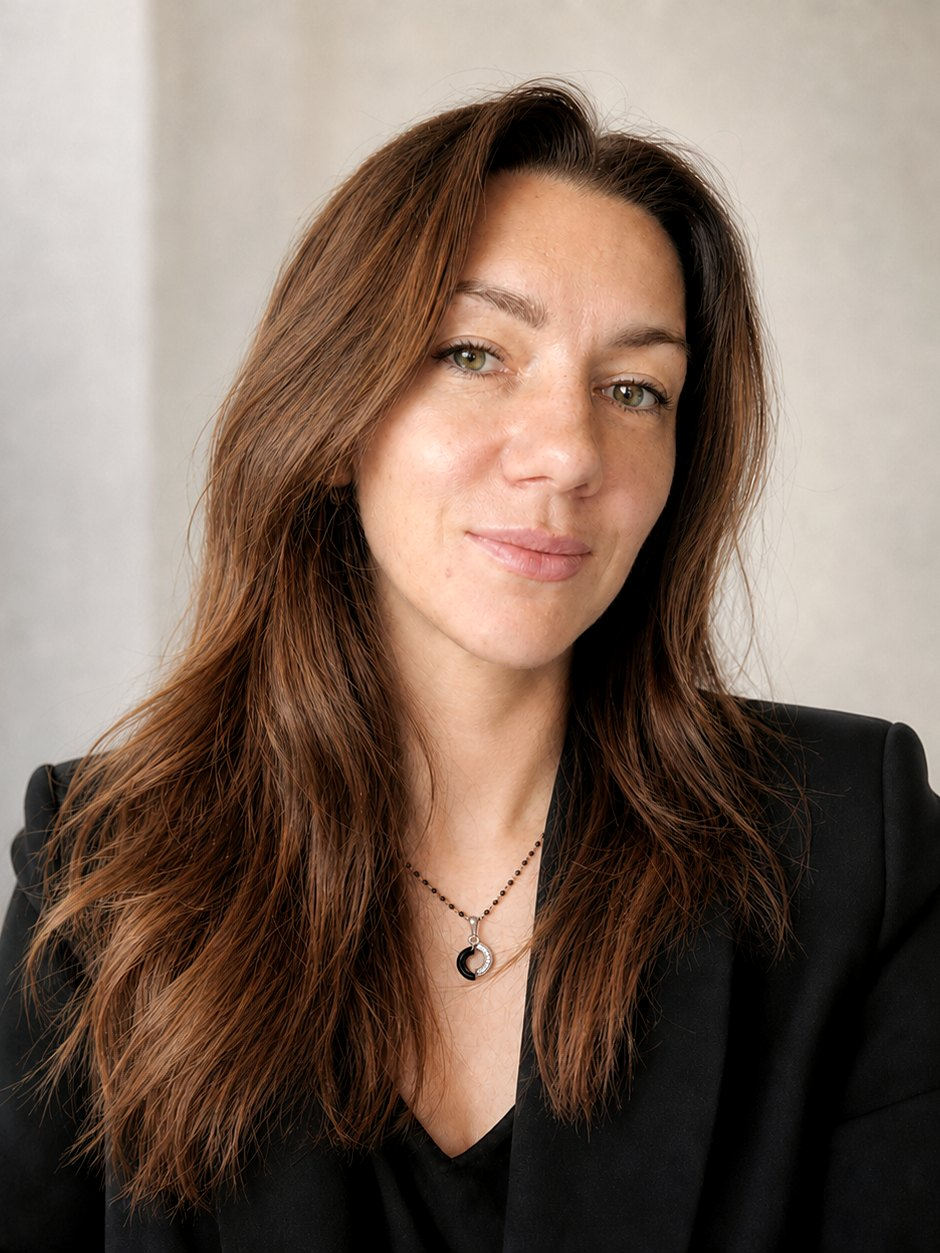
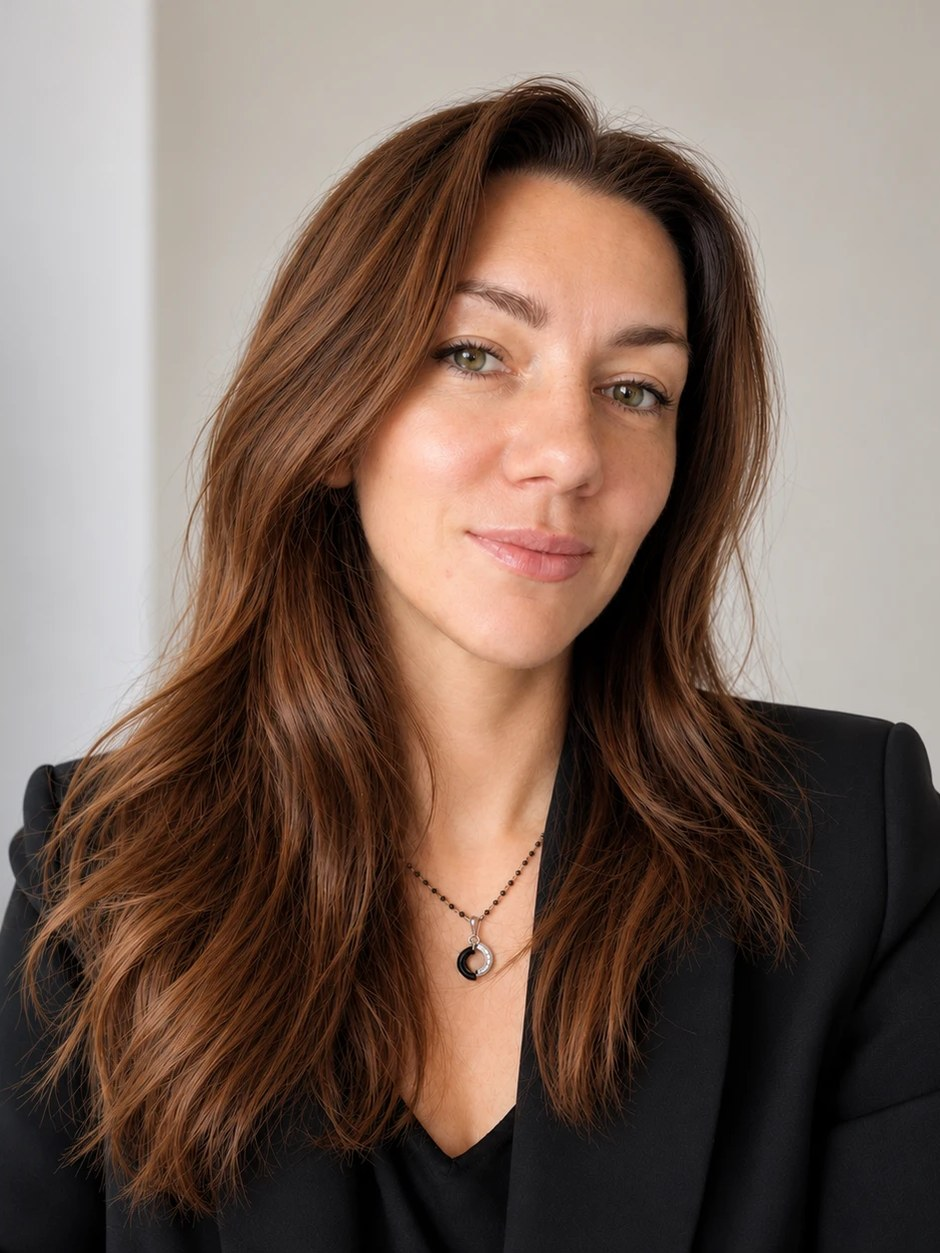
Фото Ольги на сайте заменено на новое (все варианты + версия кэша)

diff --git a/public/index.html b/public/index.html
@@ -76,8 +76,8 @@
 
     <figure class="hero__photo">
       <picture>
-        <source srcset="/assets/img/olga-portrait.webp" type="image/webp">
-        <img src="/assets/img/olga-portrait.jpg" width="720" height="900"
+        <source srcset="/assets/img/olga-portrait.webp?v=20260926" type="image/webp">
+        <img src="/assets/img/olga-portrait.jpg?v=20260926" width="720" height="900"
              alt="Ольга Грошева" fetchpriority="high">
       </picture>
     </figure>
